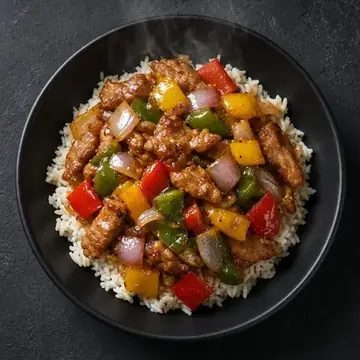
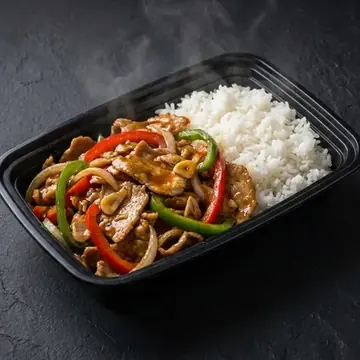
Pictures: Oranje Snack and Dushi Wok remade with Gemini; picture tools in build/gemini
- Oranje Snack: kroket, frikandel special, mixed snack box, saté, fries with
  mayo (bitterballen came earlier), all photo-style on one navy-tile counter.
- Dushi Wok: fried rice, sweet & sour, lo mein, pork stir-fry, shrimp fried
  rice, wings, egg rolls, with varied angles and dishes, same slate look.
- Each checked against its menu text; rejected tries: mixed box with 3 and
  then 6 bitterballen (needs 4), fried rice with no visible egg.
- build/gemini/make_picture.py + one prompt per dish (key only from the
  environment); its output folder is ignored. Thumbnails and share cards
  rebuilt. CLAUDE.md file map updated for the new tools.

Claude-Session: https://claude.ai/code/session_01XBKZdq1LYYQVLVXF99C92c

diff --git a/build/gemini/make_picture.py b/build/gemini/make_picture.py
@@ -1,0 +1,63 @@
+"""Dish pictures with Google Gemini. Every picture must show exactly what its menu text says: look at each try.
+  python3 build/gemini/make_picture.py make <restaurant> <id> [--model gemini-3-pro-image]
+      one try from build/gemini/prompts/<restaurant>-<id>.txt -> build/gemini/out/<restaurant>-<id>-<n>.<ext> (not committed)
+  python3 build/gemini/make_picture.py use <try file> <restaurant> <id>
+      after checking it against the menu: 780x446 WebP (under 70 KB) at that dish's "img" path in menu.json.
+      Then run python3 build/thumbs.py and python3 build/og/make_og.py, and qa/check_site.py.
+The key comes only from the GEMINI_API_KEY environment variable and is sent only as the x-goog-api-key header.
+Never put it in this repo. A prompt file's first line is "ref: <picture path>" (style reference) or "ref: none"."""
+import base64, json, os, sys, urllib.error, urllib.request
+from PIL import Image
+
+ROOT = os.path.dirname(os.path.dirname(os.path.dirname(os.path.abspath(__file__))))
+HERE = os.path.join(ROOT, "build", "gemini")
+OUT = os.path.join(HERE, "out")
+URL = "https://generativelanguage.googleapis.com/v1beta/models/{}:generateContent"
+MIME = {".webp": "image/webp", ".jpg": "image/jpeg", ".jpeg": "image/jpeg", ".png": "image/png"}
+
+def make(rest, iid, model):
+    lines = open(os.path.join(HERE, "prompts", f"{rest}-{iid}.txt"), encoding="utf-8").read().split("\n", 1)
+    ref, prompt = lines[0].replace("ref:", "").strip(), lines[1].strip()
+    parts = [{"text": prompt}]
+    if ref and ref != "none":
+        parts.append({"inline_data": {"mime_type": MIME[os.path.splitext(ref)[1].lower()],
+                                      "data": base64.b64encode(open(os.path.join(ROOT, ref), "rb").read()).decode()}})
+    body = {"contents": [{"parts": parts}], "generationConfig": {"responseModalities": ["IMAGE"], "imageConfig": {"aspectRatio": "16:9"}}}
+    key = os.environ.get("GEMINI_API_KEY") or sys.exit("GEMINI_API_KEY is not set")
+    req = urllib.request.Request(URL.format(model), json.dumps(body).encode(), {"x-goog-api-key": key, "Content-Type": "application/json"})
+    try:
+        data = json.load(urllib.request.urlopen(req, timeout=300))
+    except urllib.error.HTTPError as e:
+        msg = e.read().decode(errors="replace").replace(key, "[key]")
+        sys.exit(f"HTTP {e.code}: {msg[:600]}" + ("\n-> Add credit in Google AI Studio (Billing) and try again." if e.code == 402 else ""))
+    for c in data.get("candidates", []):
+        for p in (c.get("content") or {}).get("parts", []):
+            blob = p.get("inlineData") or p.get("inline_data")
+            if blob and blob.get("data"):
+                ext = {"image/jpeg": ".jpg", "image/webp": ".webp"}.get(blob.get("mimeType") or blob.get("mime_type"), ".png")
+                os.makedirs(OUT, exist_ok=True)
+                n = 1 + sum(1 for f in os.listdir(OUT) if f.startswith(f"{rest}-{iid}-"))
+                path = os.path.join(OUT, f"{rest}-{iid}-{n}{ext}")
+                open(path, "wb").write(base64.b64decode(blob["data"]))
+                return print("made", os.path.relpath(path, ROOT), "-> look at it and check it against the menu text")
+    sys.exit("no picture came back: " + json.dumps(data.get("promptFeedback") or [c.get("finishReason") for c in data.get("candidates", [])]))
+
+def use(src, rest, iid):
+    menu = json.load(open(os.path.join(ROOT, rest, "menu.json"), encoding="utf-8"))
+    img = [i for i in menu["items"] if i["id"] == iid][0]["img"]
+    im = Image.open(src).convert("RGB"); w, h = im.size; t = 780 / 446
+    box = ((w - round(h * t)) // 2, 0, (w + round(h * t)) // 2, h) if w / h > t else (0, (h - round(w / t)) // 2, w, (h + round(w / t)) // 2)
+    im = im.crop(box).resize((780, 446), Image.LANCZOS)
+    dest, q = os.path.join(ROOT, img), 80
+    while True:
+        im.save(dest, "WEBP", quality=q, method=6)
+        if os.path.getsize(dest) <= 70 * 1024 or q <= 50: break
+        q -= 4
+    print(f"saved {img} ({os.path.getsize(dest) // 1024} KB). Now: python3 build/thumbs.py && python3 build/og/make_og.py")
+
+if __name__ == "__main__":
+    a = sys.argv[1:]
+    model = a[a.index("--model") + 1] if "--model" in a else "gemini-3-pro-image"
+    if a[:1] == ["make"]: make(a[1], a[2], model)
+    elif a[:1] == ["use"]: use(a[1], a[2], a[3])
+    else: print(__doc__)

diff --git a/CLAUDE.md b/CLAUDE.md
@@ -22,14 +22,21 @@ Haus Kitchen (German) and Warung Sranan (Surinamese) were removed on 7 Oct 2026.
 - `shared/order.css` (the whole look: one font, Archivo, in `shared/fonts/`; night palette), `shared/hub.css` (home + cart extras). Each restaurant's accent colour comes from `color` in its menu.json. There are no per-restaurant stylesheets or fonts any more.
 - `index.html` home, `cart.html` full-page order, `<restaurant>/index.html` thin shell.
 - `ops/kitchen/`: the chef app (Prep / Cook an order / Close up). Its data builder and the cost/buyer screens are private (see `.gitignore`) and live only on Victor's VPS copy.
-- `qa/check_site.py`: checks every image and page and writes real WhatsApp samples to `qa/wa-samples.json`. Run it after every change.
-- `build/art/`: scripts + SVG sources for the drawn pictures (Oranje Snack dishes, taco `gt`, the three cans).
-- `shared/og/*.jpg`: link preview cards (home + one per restaurant) used by `og:image` tags. The tags use the full address `https://victorfromaruba-stack.github.io/restaurant-/`; change them if the site moves to its own domain.
+- `shared/lang/{pap,nl,es}.json`: screen text in Papiamento, Dutch and Spanish (`{"English": "translation"}`). The language follows the phone, with an EN/PAP/NL/ES switch at the bottom of pages. The WhatsApp ticket, dish names and descriptions stay English. New screen text goes through `tr("...")` in order-app.js (or `data-t` in HTML); `build/lang_keys.py` lists every phrase. Victor reviews the Papiamento.
+- `sw.js`: offline cache (network first for pages/code/menus, cached-first for pictures and fonts, refreshed in the background). Bump `CACHE` to clear it.
+- `qa/check_site.py`: checks every image, thumbnail, page and language, the Google data, and writes real WhatsApp samples to `qa/wa-samples.json`. Run it after every change; it must say 0 problems.
+- `build/thumbs.py`: 360px square thumbnails for menu rows (`<picture folder>/thumbs/`). Run after adding or replacing any dish picture.
+- `build/gemini/`: `make_picture.py` + one prompt per dish for Gemini pictures (key only from `GEMINI_API_KEY`, never in the repo). Look at every try and check it against the menu text before `use`.
+- `build/og/make_og.py`: rebuilds the link preview cards in `shared/og/` from the menus. `build/seo.py`: Google data (JSON-LD in the pages), `sitemap.xml`, `robots.txt`; run after changing hours, areas or menus.
+- `build/art/`: scripts + SVG sources for the drawn pictures (Oranje Snack dishes, the three cans).
+- `shared/og/*.jpg`: link preview cards (home + one per restaurant) used by `og:image` tags. The tags use the full address `https://victorfromaruba-stack.github.io/restaurant-/`; change them (and rerun `build/seo.py`) if the site moves to its own domain.
 - `manifest.webmanifest` + `shared/icons/`: "Add to home screen" app icon for Order Aruba.
 
 ## Features (Oct 2026)
 - Home: OPEN sign (lights up during hours), search across all menus, delivery/pickup + area picker in the top bar, "Order again" (last sent order, one tap), signature dish rail, restaurant cards.
-- Restaurant page: cover photo, logo, open status, Featured rail, menu rows with + on each photo, "Goes well with" add-ons in the dish sheet.
+- Home also: a row of the five restaurants under the search, desktop arrows on the dish rail.
+- Restaurant page: cover photo (or a silent video loop if menu.json has `video`), logo, open status, Featured rail, menu rows with + on each photo, "Goes well with" add-ons in the dish sheet, "Also tonight from our kitchen" at the end.
+- Four languages for screen text; works offline for pages already opened.
 - Checkout: "When": as soon as possible (while open) or a 15-minute slot tonight. WhatsApp ticket carries `Time: …`; the chef app shows it on the ticket.
 - Chef app: paste the WhatsApp order, cook step by step, ready-made customer replies (confirm, on the way / ready for pickup, sold out).
 
@@ -51,7 +58,9 @@ Haus Kitchen (German) and Warung Sranan (Surinamese) were removed on 7 Oct 2026.
 - Never use VapVap as a sales channel. Don't touch Frank's app.
 
 ## Still open
-- Real kitchen photos to replace the drawings (Oranje Snack x6, Ground beef street tacos, the 3 cans). Keep the same file path or update `img` in menu.json.
+- Real kitchen photos one day: every dish picture is an illustration for now (menus say "Pictures are illustrations."). Keep the same file path or update `img` in menu.json, then run `build/thumbs.py`.
+- The three cans are still drawings: photograph the real cans (don't generate brand logos).
+- Victor still has to give: how customers pay (`payment`), the last-orders time (`lastOrder`), and his check of the Papiamento.
 - Own domain (e.g. a .com pointed at GitHub Pages) when Victor wants one.
 
 ## Run locally

diff --git a/SOURCES.md b/SOURCES.md
@@ -1,5 +1,10 @@
 ## 8 Oct 2026 update
-- Made with Google Gemini (gemini-3-pro-image), checked against each menu `desc`, saved at the same paths as before: Smash cheeseburger (`smash-shack/assets/dishes/sc-hero.webp`, `sc.webp`), Smash burger combo (`co.webp`), Ground beef street tacos (`taco-brava/assets/art/gt.webp`, a photo-style picture despite the folder name), Crispy shrimp tacos (`taco-brava/assets/dishes/st.webp`), Bitterballen (`oranje-snack/assets/art/bb.webp`). Illustrations, not kitchen photos: every menu says "Pictures are illustrations."
+- Made with Google Gemini (gemini-3-pro-image), each checked against its menu `desc` (counts, fillings, sauces, nothing extra), saved at the same paths as before:
+  - Smash Shack: cheeseburger (`sc-hero.webp`, `sc.webp`), burger combo (`co.webp`)
+  - Taco Brava: ground beef street tacos (`assets/art/gt.webp`), crispy shrimp tacos (`st.webp`)
+  - Oranje Snack: all six (`assets/art/*.webp`; photo-style now, despite the folder name)
+  - Dushi Wok: fried rice, sweet & sour, lo mein, pork stir-fry, shrimp fried rice, wings, egg rolls (`assets/dishes/*.webp`). The Family Table (`ft.webp`) is still the earlier composite.
+- Prompts and the script: `build/gemini/`. Illustrations, not kitchen photos: every menu says "Pictures are illustrations."
 
 ## 7 Oct 2026 update
 - Oranje Snack dish pictures, Taco Brava `gt` and the three cans (`shared/drinks/`) are original drawings made for this site (sources + scripts in `build/art/`). No brand logos on the cans.
